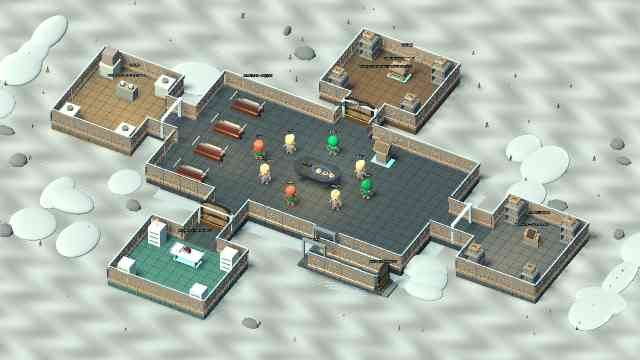
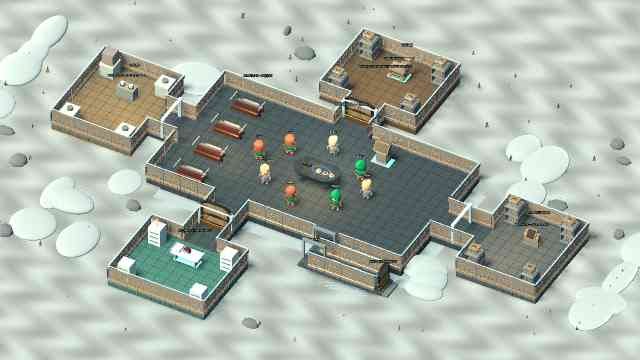
Document verified permanent-signature release 13 and refresh the single preview set

Changed region(s): [[0.5, 0.4278, 0.5938, 0.5806], [0.4375, 0.3667, 0.4688, 0.4583], [0.5, 0.3667, 0.5312, 0.4278]]

diff --git a/docs/ANDROID_UPDATES.md b/docs/ANDROID_UPDATES.md
@@ -1,0 +1,49 @@
+# Обновления Android и постоянная подпись
+
+## Как это работает
+
+В приветственном меню и меню партии есть «Проверить обновления». По нажатию приложение обращается к публичному GitHub API этого репозитория. Фоновых обязательных запросов, учётной записи GitHub, токена в APK и загрузки удалённых скриптов нет; без сети игра работает.
+
+Клиент принимает только опубликованные стабильные Releases с тегом `android-N` и строго ожидаемым APK `https://github.com/AlfaGideon/Bunker/releases/download/android-N/bunker-N.apk`. Старые и равные версии не предлагаются, черновики, prerelease, неправильные имена и посторонние URL отклоняются. Нет релиза — сообщается, что подписанные обновления пока не опубликованы. Ошибки сети и ограничения API не блокируют игру.
+
+Кнопка скачивания открывает официальный APK в системном браузере. После скачивания пользователь открывает файл и подтверждает установку в Android. Возможно, понадобится разрешить установку приложений из используемого браузера. Это **не тихая установка**: APK не скачивается внутри Godot и системный установщик не запускается нативным плагином. Кнопка проверки запускается вручную, автоматических уведомлений при старте пока нет.
+
+Подлинность APK и возможность обновления установленного пакета проверяет Android по сертификату подписи. Отдельной клиентской проверки SHA-256 скачанного файла нет: загрузку ведёт браузер. SHA256SUMS публикуется рядом с APK для ручной проверки.
+
+## Первая установка
+
+Старые тестовые сборки до подключения постоянных Secrets подписывались временными ключами разных CI runner. Перейти с такой сборки на постоянно подписанный Release поверх неё, как правило, нельзя: Android отклонит несовпадение подписи. Один раз потребуется удалить старую установку и установить APK из первого подписанного Release. Это удалит локальный профиль; существующая партия и так не сохраняется между запусками.
+
+После этого для обычных обновлений приложение **удалять не нужно**. При неизменном package ID `org.bunker.prototype`, прежнем ключе и увеличенном version code Android устанавливает обновление с сохранением данных. Не используйте старые preview APK для первоначального перехода на постоянную подпись.
+
+## Где хранятся ключи
+
+Три Repository secrets в GitHub Actions:
+
+- `BUNKER_KEYSTORE_BASE64` — содержимое PKCS#12 в Base64;
+- `BUNKER_KEYSTORE_PASSWORD` — пароль контейнера и ключа;
+- `BUNKER_KEY_ALIAS` — alias записи.
+
+Значения не коммитятся и не публикуются в Releases. На runner ключ декодируется в приватный файл с правами 0600; release-параметры Godot передаются через поддерживаемые переменные окружения. В APK приватного ключа и пароля нет. После job временные файлы удаляются. Public release pipeline не имеет fallback на случайную подпись.
+
+Сохраните исходный ключ и пароль в защищённом резервном хранилище. Утрата ключа лишит возможности подписывать следующие обычные обновления тем же сертификатом. Не генерируйте новый ключ для каждой версии. Доступ на запись к репозиторию и workflow должен быть только у доверенных людей: такой доступ потенциально позволяет использовать его signing secrets в CI.
+
+`tools/create_signing_bundle.py` предназначен только для локальной первоначальной генерации, требует Python cryptography и отказывается перезаписывать имеющийся архив. Он не запускается в публичном CI. Приватный архив передан владельцу отдельно, в Git и снимки исходников `.cache` не входит.
+
+## Выпуск следующей версии
+
+1. Изменить приложение, увеличить **оба** значения: `version/code` в `export_presets.cfg` и `VERSION_CODE` в `game/scripts/app_updates.gd`. Обновить также обе строки версии. Тест проверяет их совпадение.
+2. Пуш изменений приложения в рабочую ветку запускает `Publish signed Android update`. При отсутствии полного набора Secrets автоматическая публикация пропускается; принудительный ручной запуск без них завершается ошибкой.
+3. Workflow выполняет все `tools/test_*.gd`, экспортирует release APK, проверяет его через `apksigner verify` и сверяет package ID/version code с помощью `aapt`.
+4. Создаётся draft Release с APK и SHA256SUMS. Только после загрузки файлов он публикуется как latest. Существующий тег версии не перезаписывается: для новых файлов нужен новый version code.
+5. Установленная предыдущая подписанная версия увидит новый Release через кнопку проверки.
+
+Workflow также поддерживает `workflow_dispatch`. Для появления новой workflow в интерфейсе ручного запуска GitHub может потребоваться её присутствие в default branch; поэтому первичный запуск в текущей рабочей ветке выполняется пушем. Если Secrets добавлены после последнего запуска, можно обновить `data/release-request.json` и запушить этот запрос. При уже опубликованной версии повторная публикация заблокирована.
+
+Обычный debug workflow использует постоянный ключ, если Secrets заданы. Без них он остаётся только временным preview с явным предупреждением и не публикуется как обновление.
+
+## Что проверено автоматически
+
+Тесты разбора metadata: новая/равная/старая версия, URL из другого источника, некорректный тег, неверная схема, draft/prerelease. Реальный диалог создаётся и закрывается без сетевого запроса, скачивание по умолчанию заблокировано. Release job проверяет итоговый APK инструментами Android SDK.
+
+На физическом устройстве ещё нужно проверить разрешение установки из браузера, скачивание и переход между двумя последовательно выпущенными подписанными версиями. Наличие кода обновления и успешная проверка подписи не заменяют такой тест.

diff --git a/README.md b/README.md
@@ -11,24 +11,24 @@
 
 Направление прототипа: Godot 4, стилизованное 3D с камерой сверху под углом и карточным 2D-интерфейсом; целевая платформа — Android. Подключены 3D-модели Quaternius (CC0); источники и лицензии — в [THIRD_PARTY.md](THIRD_PARTY.md).
 
-## Текущий тестовый APK — 0.12: камера, полный знак и отрицательные действия
+## Текущий APK — 0.13: постоянная подпись и проверка обновлений
 
-[**Скачать ZIP с bunker-debug.apk**](https://github.com/AlfaGideon/Bunker/actions/runs/40684852932/artifacts/12815035009) (нужен вход в GitHub; хранение 14 дней).
+[**Скачать bunker-13.apk напрямую**](https://github.com/AlfaGideon/Bunker/releases/download/android-13/bunker-13.apk) · [Публичный Release](https://github.com/AlfaGideon/Bunker/releases/tag/android-13). Вход в GitHub и распаковка ZIP не нужны.
 
-- **Камера ограничена по всей видимой области**, а не только по центру. Масштаб 7–40, безопасные границы панорамирования и дополнительный расчёт углов широкого экрана не дают увидеть край площадки. Исправлена также нижняя полоса от ближней плоскости отсечения при отдалении. Свайп и щипок сохранены.
-- **Иконка APK теперь содержит весь выбранный знак**, а не отдельно вырезанную дверь. Для адаптивных Android-иконок знак помещён в безопасную область, чтобы круглая маска не срезала буквы. Логотип меню и заставки сохранён.
-- **Отрицательные действия** доступны только при конкретном недостатке характера: ссора для вспыльчивого, порча спрятанных рационов для эгоистичного, пропуск обслуживания для небрежного/упрямого. Реально уменьшаются общие запасы. Нужны подтверждение и раскрытие недостатка группе; одно действие за раунд. Профессия или заболевание сами по себе доступ не дают.
+В приветственном меню и меню партии появилась **«Проверить обновления»**. Приложение проверяет стабильные Releases проекта и предлагает более новую версию. APK скачивается браузером, установку подтверждает Android — тихой установки и автоматической фоновой загрузки нет. Без сети игра работает.
 
-Сохранены живой лагерь с моделями Quaternius, ветер, огонь, настройка внешности, профиль и все положительные активности.
+Эта версия впервые опубликована с **постоянным ключом подписи** из GitHub Actions Secrets. При несовпадении подписи прежнюю временную тестовую сборку придётся удалить один раз, с потерей профиля. Дальше обновления с тем же ключом и увеличенным version code устанавливаются поверх приложения; удалять его не нужно.
 
-[**Подробности 0.12**](docs/ITERATION_12.md) · [Черновик предложения о сотрудничестве](docs/COOPERATION_PROPOSAL_RU.md) · [Godot CI](https://github.com/AlfaGideon/Bunker/actions/runs/40684853007) · [Android build](https://github.com/AlfaGideon/Bunker/actions/runs/40684852932).
+[**Изменения 0.13**](docs/ITERATION_13.md) · [Обновления, подпись и выпуск следующих версий](docs/ANDROID_UPDATES.md) · [Release workflow](https://github.com/AlfaGideon/Bunker/actions/runs/40690788337) · [Godot CI](https://github.com/AlfaGideon/Bunker/actions/runs/40690788670).
 
-Исходники APK: `6f539b3`; version code 12, `0.12.0-character-actions`, ZIP **64 271 689 байт**. Все 13 тестовых скриптов, четыре job Godot workflow и Android export успешны. Проверены настоящая кнопка и подтверждение отрицательного действия, реальные списания и ограничения камеры при 2460×1080. Это проверки в движке; физический BL9000 ещё требует испытания. В проекте один актуальный набор из 16 скриншотов, без архивов версий.
+Исходники APK: `0e01f6a`; version code **13**, версия **0.13.0**, APK **59 846 492 байта**. Подпись проверена через apksigner, package ID и код версии — через aapt. Все 14 GDScript-тестов, проверка согласованности версии, четыре визуальные/основные job Godot и release workflow успешны. API latest возвращает ожидаемый `android-13`. Приватных ключей и паролей в исходниках и Release нет.
 
-![Текущий бункер — настоящий рендер Godot](docs/previews/bunker.jpg)
+Сохранены ограниченная камера, полный знак на иконке, отрицательные действия по недостаткам характера и живой лагерь. Один актуальный набор из 16 скриншотов обновлён без накопления версий. Физический BL9000 и переход на следующую подписанную версию ещё требуют испытания.
+
+![Текущее приветственное меню](docs/previews/menu.jpg)
 
 **В самой партии сохранены:** отдельные наружные пристройки и коридоры, профессиональный доступ, совет склада, кухня/еда, две способности, выступления по 60 секунд, выбор d6/d20. Камера управляется свайпом и двумя пальцами, на ПК — мышью и колесом.
 
 **Локальный прототип, не онлайн-игра.** Остальные участники — тестовые фикстуры. Нет чата/микрофона и сохранения партии между запусками. Проверка на физическом BL9000 ещё нужна. При конфликте debug-подписи потребуется удалить прежнюю установку с потерей профиля. [Источники моделей и лицензии](THIRD_PARTY.md).
 
-Предыдущие итерации: [0.11](docs/ITERATION_11.md), [0.10](docs/ITERATION_10.md), [0.9](docs/ITERATION_09.md), [0.8](docs/ITERATION_08.md), [0.7](docs/ITERATION_07.md), [0.6](docs/ITERATION_06.md).
+Предыдущие итерации: [0.12](docs/ITERATION_12.md), [0.11](docs/ITERATION_11.md), [0.10](docs/ITERATION_10.md), [0.9](docs/ITERATION_09.md), [0.8](docs/ITERATION_08.md), [0.7](docs/ITERATION_07.md), [0.6](docs/ITERATION_06.md).

diff --git a/docs/ITERATION_13.md b/docs/ITERATION_13.md
@@ -1,0 +1,33 @@
+# 0.13 — подписанные обновления Android
+
+[**Скачать bunker-13.apk напрямую**](https://github.com/AlfaGideon/Bunker/releases/download/android-13/bunker-13.apk) · [Публичный Release](https://github.com/AlfaGideon/Bunker/releases/tag/android-13) · [Сборка и проверка подписи](https://github.com/AlfaGideon/Bunker/actions/runs/40690788337) · [Godot CI](https://github.com/AlfaGideon/Bunker/actions/runs/40690788670).
+
+Исходники: `0e01f6a`, version code **13**, версия **0.13.0**, APK **59 846 492 байта**. Это release APK с постоянной подписью, не ZIP с временной тестовой сборкой. Публичный файл скачивается без входа в GitHub и не зависит от 14-дневного срока хранения Actions artifacts.
+
[1 lines of base64/hex data omitted]
+
+## Что появилось
+
+В приветственном меню и меню партии — кнопка **«Проверить обновления»**. Она обращается к публичному GitHub API проекта, сверяет номер версии и формат публикации. При появлении более новой стабильной сборки предлагает скачать её. Черновики, prerelease, старые версии, неправильные теги и ссылки на APK с другого адреса не принимаются.
+
+Скачивание выполняется через системный браузер, затем пользователь открывает APK и подтверждает установку в Android. Тихой установки, фоновой загрузки или нативного установщика внутри Godot в этой версии нет. Игра остаётся доступна без сети; проверка запускается только по кнопке.
+
+## Первая установка с постоянным ключом
+
+Сборки до этого подписывались временными ключами CI. При несовпадении сертификатов Android не разрешит обновиться поверх них. В таком случае **один раз** нужно удалить прежнее приложение и установить `bunker-13.apk` из этого Release. Локальный профиль при удалении потеряется.
+
+После перехода на эту подпись следующие версии с тем же ключом и увеличенным version code устанавливаются поверх приложения с сохранением данных. Для обычного обновления приложение удалять не нужно. Фактический переход между двумя такими версиями ещё нужно проверить на телефоне при следующем выпуске.
+
+## Ключи и публикация
+
+Владелец настроил три GitHub Actions Secrets; workflow успешно прочитал их, подписал APK и проверил результат через `apksigner verify`. `aapt` подтвердил package ID `org.bunker.prototype` и version code 13. Публичный Release содержит только APK и SHA256SUMS — приватного ключа и пароля там нет.
+
+Release pipeline не подменяет отсутствующий постоянный ключ случайным. Приватные значения не записываются в `export_presets.cfg` и исходники приложения. Инструкция по сохранению ключа и выпуску следующих версий: [ANDROID_UPDATES.md](ANDROID_UPDATES.md).
+
+## Проверки
+
+Все 14 GDScript-тестов и Python-проверка согласованности версии пройдены в release workflow. В том числе проверены metadata обновлений, отказ от понижения версии и постороннего APK, создание настоящего диалога, заблокированная до проверки кнопка скачивания и закрытие без сети. API `releases/latest` после публикации возвращает именно `android-13` с ожидаемым именем и адресом APK.
+
+Положительные/отрицательные действия, ограниченная камера, выбранный логотип и живой лагерь сохранены. На физическом BL9000 ещё нужны проверка браузерного скачивания, разрешения на установку, иконки и перехода на следующую подписанную версию.
+
+Все четыре job Godot workflow и обычный Android job на том же commit также успешны. Единый набор из 16 JPEG обновлён и полностью декодирован; значения приватных signing secrets не найдены в tracked source.

diff --git a/docs/BUILD_STATUS.md b/docs/BUILD_STATUS.md
@@ -1,6 +1,8 @@
 # Проверки и APK
 
-**Текущая версия 0.12:** [APK](https://github.com/AlfaGideon/Bunker/actions/runs/40684852932/artifacts/12815035009), [Android build](https://github.com/AlfaGideon/Bunker/actions/runs/40684852932), [Godot CI](https://github.com/AlfaGideon/Bunker/actions/runs/40684853007), [изменения](ITERATION_12.md). Исходники `6f539b3`, version code 12, ZIP 64 271 689 байт. Все 13 тестовых скриптов, четыре job Godot workflow и Android export успешны. В том числе проверены API и настоящая кнопка отрицательного действия, подтверждение, списания, раскрытие недостатка и повторное использование; камера ограничена по всем четырём углам обычного и действительно расширенного viewport 2460×1080. Все 16 текущих JPEG декодированы полностью, SHA-256 моделей сверены. Физический BL9000 не тестировался.
+**Текущая версия 0.13:** [release APK](https://github.com/AlfaGideon/Bunker/releases/download/android-13/bunker-13.apk), [Release](https://github.com/AlfaGideon/Bunker/releases/tag/android-13), [подпись и публикация](https://github.com/AlfaGideon/Bunker/actions/runs/40690788337), [Godot CI](https://github.com/AlfaGideon/Bunker/actions/runs/40690788670), [подробности](ITERATION_13.md). Исходники `0e01f6a`, version code 13, 59 846 492 байта. Все 14 GDScript-тестов, Python-проверка версий, четыре job Godot и release job успешны. apksigner проверил APK; aapt подтвердил package ID/version code. Проверен публичный API latest. Все 16 текущих JPEG полностью декодированы. Постоянный ключ успешно прочитан из GitHub Secrets, его значений в tracked source нет. Физическое обновление между двумя подписанными версиями ещё не проверено.
+
+**Историческая версия 0.12:** [APK](https://github.com/AlfaGideon/Bunker/actions/runs/40684852932/artifacts/12815035009), [Android build](https://github.com/AlfaGideon/Bunker/actions/runs/40684852932), [Godot CI](https://github.com/AlfaGideon/Bunker/actions/runs/40684853007), [изменения](ITERATION_12.md). Исходники `6f539b3`, version code 12, ZIP 64 271 689 байт. Все 13 тестовых скриптов, четыре job Godot workflow и Android export успешны. В том числе проверены API и настоящая кнопка отрицательного действия, подтверждение, списания, раскрытие недостатка и повторное использование; камера ограничена по всем четырём углам обычного и действительно расширенного viewport 2460×1080. Все 16 текущих JPEG декодированы полностью, SHA-256 моделей сверены. Физический BL9000 не тестировался.
 
 **Историческая версия 0.11 — выбранный логотип и живой лагерь:** [APK](https://github.com/AlfaGideon/Bunker/actions/runs/40633858309/artifacts/12793005603), [Android build](https://github.com/AlfaGideon/Bunker/actions/runs/40633858309), [Godot CI](https://github.com/AlfaGideon/Bunker/actions/runs/40633858618), [изменения, источники и лицензии](ITERATION_11.md). Исходники `00e2854`, version code 11, ZIP 65 015 930 байт. Все 12 тестовых скриптов, четыре job Godot workflow и Android export успешны. 16 текущих JPEG полностью проверены, версии не накапливаются. Физический BL9000 ещё требует проверки.
 

diff --git a/docs/RUNNING.md b/docs/RUNNING.md
@@ -1,4 +1,4 @@
-# Запуск локального прототипа — 0.12
+# Запуск локального прототипа — 0.13
 
 ## Исходники
 
@@ -8,6 +8,8 @@
 4. Нажать «Начать партию»: настройки сохранятся, загрузится бункер и откроется аварийная сводка. Профессии сразу публичны; при раскрытии биологии внешность определяется её полом и возрастом.
 
 ## Управление
+
+[Подписанная версия 0.13](ITERATION_13.md) скачивается как APK напрямую из Release. «Проверить обновления» находится в приветственном меню и меню партии; скачивание через браузер, установка с подтверждением Android. Для однократного перехода с прежней временной подписи может потребоваться удаление старой установки с потерей профиля. [Инструкция](ANDROID_UPDATES.md).
 
 [Изменения 0.12](ITERATION_12.md): зум и панорамирование ограничены безопасной областью земли. «Отрицательные действия» находятся на правой панели и в меню партии; они требуют конкретного недостатка характера и подтверждения. Болезнь/инвалидность доступ не открывает. При использовании недостаток раскрывается группе; одно действие за раунд. Иконка приложения содержит полный выбранный знак.
 
